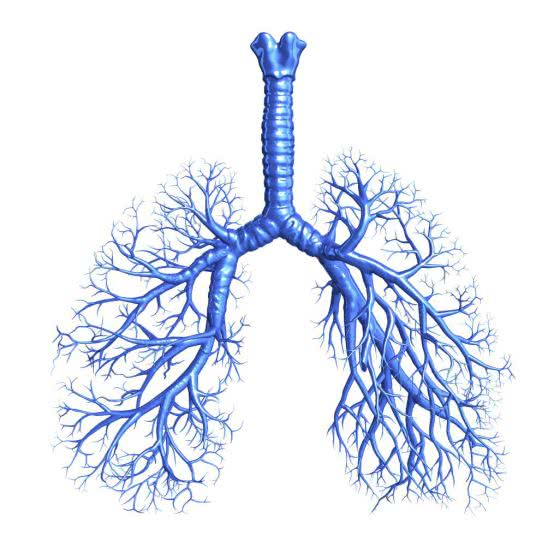
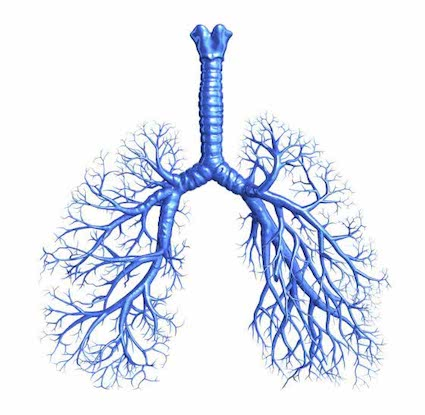
Optimize images

diff --git a/_posts/2019-08-07-complexity-a-guided-tour-notes.md b/_posts/2019-08-07-complexity-a-guided-tour-notes.md
@@ -41,7 +41,7 @@ permalink: /complexity-a-guided-tour-notes
 4. 混沌系统的共性：
    1. [倍周期](https://en.wikipedia.org/wiki/Period-doubling_bifurcation)： 随着参数控制参数$R$的增大，系统吸引子的震荡周期成倍增加的现象。
       倍周期是一种典型的系统走向混沌的方式。 下图是逻辑斯蒂映射的分叉图，图中吸引子 $x$ 是 控制参数 $r$ 的函数：
-      ![]({{ site.image_prefix | append: 'complexity-a-guided-tour-notes/13.png' }})
+      ![]({{ site.image_prefix | append: 'complexity-a-guided-tour-notes/13.jpg' }})
    2. [费根鲍姆常数](https://zh.wikipedia.org/wiki/%E8%B2%BB%E6%A0%B9%E9%AE%91%E5%A7%86%E5%B8%B8%E6%95%B8)：
       倍周期分叉中两个相邻分叉点间隔的比例收敛于一个常数$4.6692016$，
       也就是第一费根鲍姆常数（上图中左侧，开始的分叉点之间的水平距离之比的极限） ，
